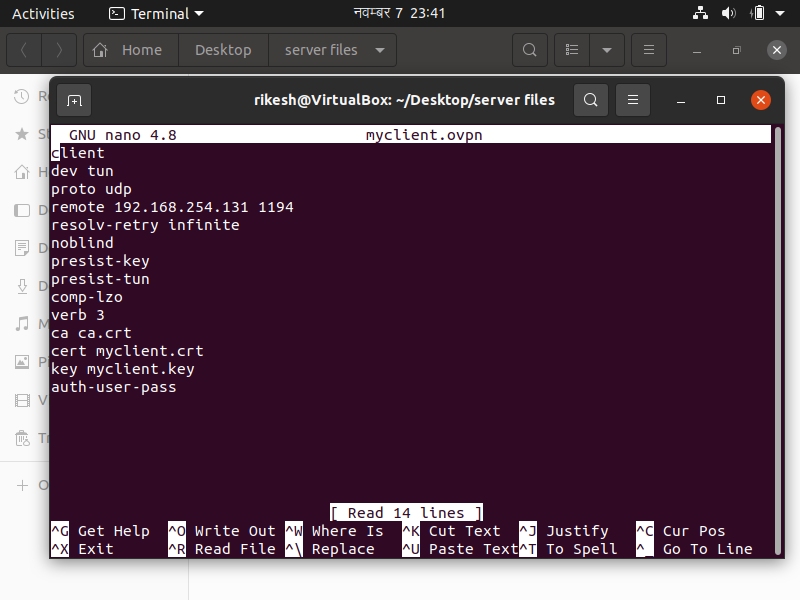
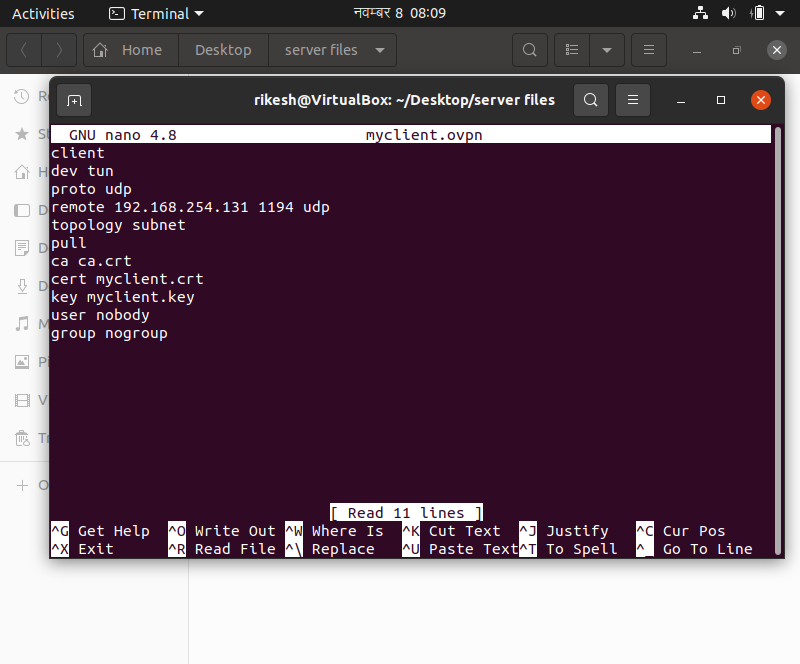
final submission

Changed region(s): [[0.0, 0.0, 1.0, 0.69], [0.0312, 0.75, 1.0, 0.96], [0.0, 0.72, 0.0625, 0.75]]

diff --git a/2/README.md b/2/README.md
@@ -5,17 +5,15 @@
     _client  
     dev tun  
     proto udp  
-    remote 192.168.254.131 1194  
-    resolv-retry infinite  
-    nobind  
-    persist-key  
-    persist-tun  
-    comp-lzo  
-    verb 3  
+    remote 192.168.254.131 1194 udp   
+    topology subnet
+    pull	
     ca ca.crt  
     cert myclient.crt  
     key myclient.key  
-    auth-user-pass_
+    user nobody  
+    group nogroup
+_
 - On the server, first VM(CentOS) enable to forward packets through its network interface
   - use sysctl to allow IP packet forwarding. Add the following line to the _sysctl.conf_ file
     - `nano /etc/sysctl.conf`
